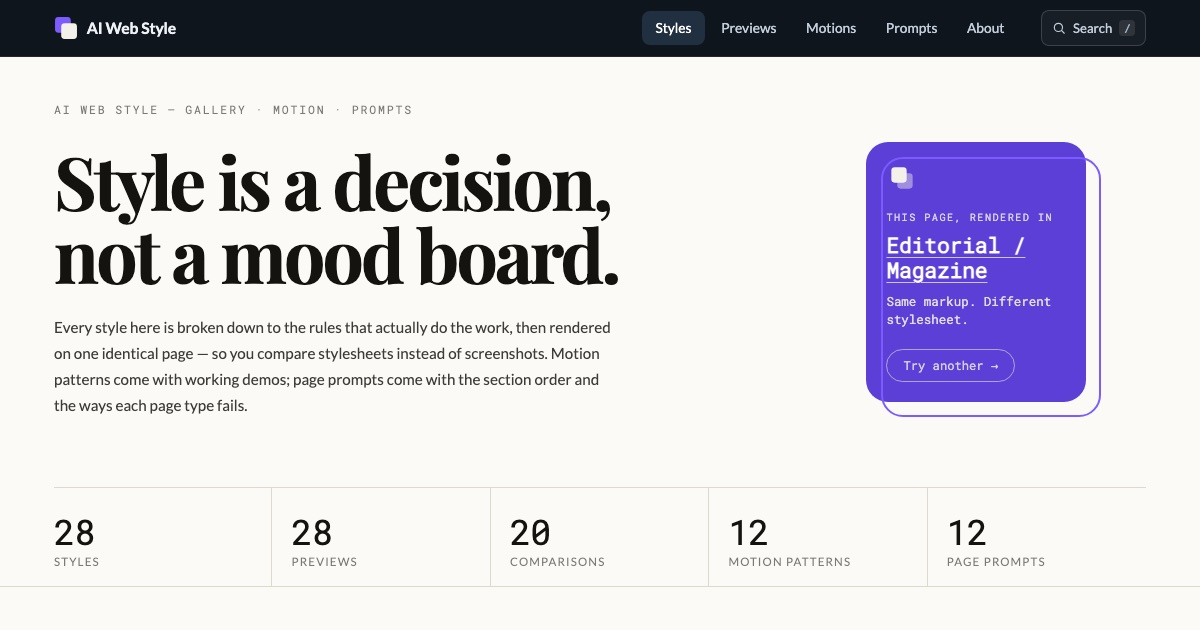
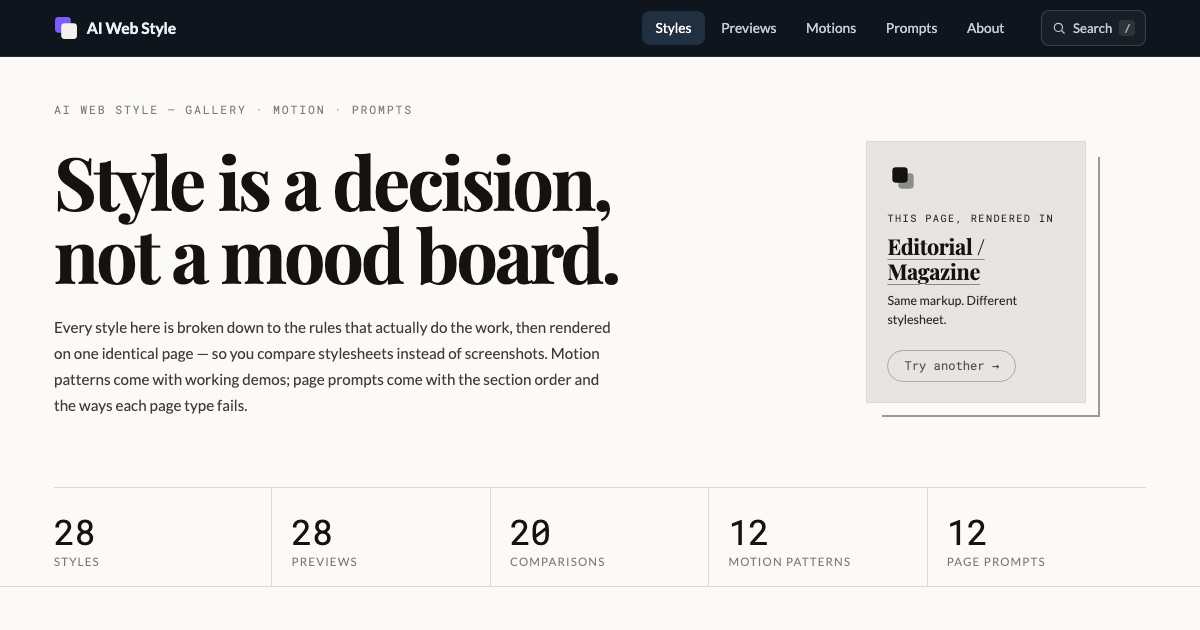
修bug

Changed region(s): [[0.7092, 0.2111, 0.925, 0.6635]]

diff --git a/style.css b/style.css
@@ -1985,6 +1985,16 @@ body.theme-glassmorphism  { --header-text-color: #06251f; }           /* 白 →
 body.theme-abstract-geometric { --header-text-color: var(--text-color); } /* 白 → 主题灰 */
 body.theme-illustration   { --header-text-color: #2b2118; }           /* 白 → 暖黑 */
 body.theme-maximalism     { --header-text-color: #000000; }           /* 红字压纯绿 → 黑字 */
+
+/* hero 卡片：卡面是「该主题 --card-bg + 9% 主题墨」，有四套主题的 card-bg 与正文色并不是一对，
+   直接沿用 --text-color 会读不清（retro-90s 的银灰卡面配白字只有 2.2:1）。逐套改前景色。 */
+body.theme-retro-90s     { --hero-card-fg: #000080; --hero-card-name: #000080; }  /* 银灰卡面 → 深蓝字 */
+body.theme-grunge        { --hero-card-fg: #dcdcdc; }                             /* 深灰卡面 → 提亮一档 */
+body.theme-skeuomorphism { --hero-card-name: #4a2e12; }                           /* 牛皮纸底 → 深棕字 */
+body.theme-neomorphism   { --hero-card-fg: #4f4f4f; }                             /* 灰底灰字 → 压深一档 */
+body.theme-illustration  { --hero-card-name: #a83f26; }                           /* 珊瑚橙太浅 → 深一档 */
+body.theme-abstract-geometric { --hero-card-name: #7b3f70; }                      /* 淡紫压白底 → 加深 */
+body.theme-claymorphism  { --hero-card-fg: #3f3724; --hero-card-name: #2e2818; }   /* 黏土底 → 整体压深 */
 body.theme-claymorphism   { --header-text-color: #3f3728; --clay-text: #5b5140; } /* 加深黏土墨色，正文也一并提高 */
 body.theme-natural-organic { --header-bg: #6f6250; }                  /* 底色压深一档，保住白字 */
 body.theme-monochromatic  { --header-bg: var(--mono-dark); }          /* 4.5 卡在阈值上，压深一档留余量 */
@@ -2251,11 +2261,14 @@ html.search-open, html.search-open body { overflow: hidden; }
         align-items: start;
     }
     .home-hero-top > * { grid-column: 1; }
-    /* 完全照 logo 的构成来：前面一块实心紫的圆角方块（卡片本体），
-       后面一块错位的描边方块（logo 的第二块）。两者共用 22px 圆角，
-       错位的描边用 z-index:-1 压到卡片背后 —— 露出来的只有右下那条 L 形边，
-       和 logo 里「后一块被前一块挡住一部分」是同一种读法。
-       文字反白：深紫 #5b3fd6 上的奶白 #f4f1ea 约 7:1。 */
+    /* 卡片跟着主题走，不再是一块固定紫。
+       卡面 = 「主题墨色 9% 掺进透明」叠在页面之上 —— 只上一层极薄的墨，底下是什么（纯色、
+       渐变、斜条纹）都透出来，所以不会像取 --page-bg 那样在渐变主题里变成一块突兀的实心块；
+       文字取 --text-color / --heading-color，风格名换成该主题的标题字体 ——
+       这张卡本身也在演示它所说的那套风格，所以它不该有自己的固定配色。
+       错位框仍沿用 logo 的第二块，颜色改成主题墨色的低透明版。
+       注意：只画右边和下边 —— 四边都画的话，上/左两条边会落在卡片里面，
+       以前底色是实心紫、边框也是紫（几乎看不见）时才没暴露。 */
     .home-hero-top > .home-style-chip {
         grid-column: 2;
         grid-row: 1 / span 4;
@@ -2267,10 +2280,20 @@ html.search-open, html.search-open body { overflow: hidden; }
         gap: .55rem;
         margin: 0 clamp(0px, 5vw, 104px) 0 0;
         padding: clamp(1.15rem, 1.7vw, 1.55rem);
-        border: 0;
-        border-radius: 22px;
-        background: #5b3fd6;
-        color: #f4f1ea;
+        border: 1px solid var(--border-color);
+        border-radius: var(--card-border-radius, 20px);
+        /* 两层：底色取该主题自己的卡面 --card-bg，上面再盖一层 9% 的主题墨。
+           主题已经把 card-bg 定成实色时（极繁主义白卡、深色 #1e1e1e）就是一张该主题的卡；
+           定成 transparent 或半透明时（editorial、玻璃拟态）就自然透出页面底色。
+           一层叠一层，两种情况都不用特判。 */
+        background-color: var(--card-bg);
+        background-image: linear-gradient(
+            color-mix(in srgb, var(--heading-color) 9%, transparent),
+            color-mix(in srgb, var(--heading-color) 9%, transparent)
+        );
+        -webkit-backdrop-filter: blur(3px) saturate(115%);
+        backdrop-filter: blur(3px) saturate(115%);
+        color: var(--hero-card-fg, var(--text-color));
         font-size: .8rem;
         opacity: 1;
         position: relative;
@@ -2280,19 +2303,21 @@ html.search-open, html.search-open body { overflow: hidden; }
         content: '';
         position: absolute;
         inset: 0;
-        border: 2px solid #7c5cff;
-        border-radius: 22px;
+        border-right: 2px solid color-mix(in srgb, var(--heading-color) 42%, transparent);
+        border-bottom: 2px solid color-mix(in srgb, var(--heading-color) 42%, transparent);
+        border-bottom-right-radius: var(--card-border-radius, 20px);
         transform: translate(15px, 15px);
         z-index: -1;
         pointer-events: none;
     }
-    /* 单色 lockup：前块实心、后块描边，和导航里那枚是同一组形状，
-       只是换成「深底上用浅色」的版本，紫色卡面上一眼能认出来 */
+    /* 单色 lockup：前块实心、后块半透明，颜色取 currentColor，
+       所以浅色主题下是深色标、深色主题下是浅色标，不用再手工配两套 */
     .home-hero-top > .home-style-chip .home-style-mark {
         display: block;
         width: 32px;
         height: 32px;
         margin-bottom: .45rem;
+        color: var(--hero-card-name, var(--heading-color));
     }
     .home-hero-top > .home-style-chip .home-style-mark svg { display: block; width: 100%; height: 100%; }
     .home-hero-top > .home-style-chip .home-style-lead-short { display: none; }
@@ -2301,38 +2326,40 @@ html.search-open, html.search-open body { overflow: hidden; }
         font-size: .64rem;
         letter-spacing: .14em;
         text-transform: uppercase;
-        opacity: .82;
+        opacity: 1;
     }
     .home-hero-top > .home-style-chip .home-style-name {
+        font-family: var(--heading-font);
         font-size: clamp(1.25rem, 1.8vw, 1.7rem);
         font-weight: 700;
         line-height: 1.15;
         letter-spacing: -.015em;
-        color: #fff !important;
+        color: var(--hero-card-name, var(--heading-color)) !important;
         text-decoration: underline;
         text-decoration-thickness: 1px;
         text-underline-offset: 4px;
-        text-decoration-color: rgba(244, 241, 234, .75);
+        text-decoration-color: color-mix(in srgb, currentColor 45%, transparent);
     }
     .home-hero-top > .home-style-chip .home-style-note {
         display: block;
+        font-family: var(--base-font);
         font-size: .78rem;
         line-height: 1.5;
-        opacity: .88;
     }
     .home-hero-top > .home-style-chip .home-style-another {
         margin-top: .7rem;
         padding: .42rem 1rem;
         font-size: .76rem;
         border-radius: 999px;
-        border: 1px solid rgba(244, 241, 234, .7);
-        color: #f4f1ea;
+        border: 1px solid color-mix(in srgb, currentColor 40%, transparent);
+        color: inherit;
         background: transparent;
     }
+    /* 悬停不做「反色」（标题色底 + 页面底色字）：那一对只在导航条上验过对比度，
+       放到卡片里可能只有 2.9:1。改成同色系加深 —— 字色不变，只把底加一层 12% 的墨。 */
     .home-hero-top > .home-style-chip .home-style-another:hover {
-        background: #f4f1ea;
-        border-color: #f4f1ea;
-        color: #3b2a99;
+        background: color-mix(in srgb, currentColor 12%, transparent);
+        border-color: currentColor;
         opacity: 1;
     }
 }

diff --git a/index.html b/index.html
@@ -186,8 +186,8 @@
             <p class="home-style-chip" id="home-style-chip">
                 <span class="home-style-mark" aria-hidden="true">
                     <svg viewBox="0 0 96 96" focusable="false">
-                        <rect x="16" y="16" width="46" height="46" rx="10" fill="#f4f1ea"/>
-                        <rect x="34" y="34" width="46" height="46" rx="10" fill="rgba(244,241,234,.45)"/>
+                        <rect x="16" y="16" width="46" height="46" rx="10" fill="currentColor"/>
+                        <rect x="34" y="34" width="46" height="46" rx="10" fill="currentColor" fill-opacity=".42"/>
                     </svg>
                 </span>
                 <span class="home-style-lead home-style-lead-short">Rendered in</span>
